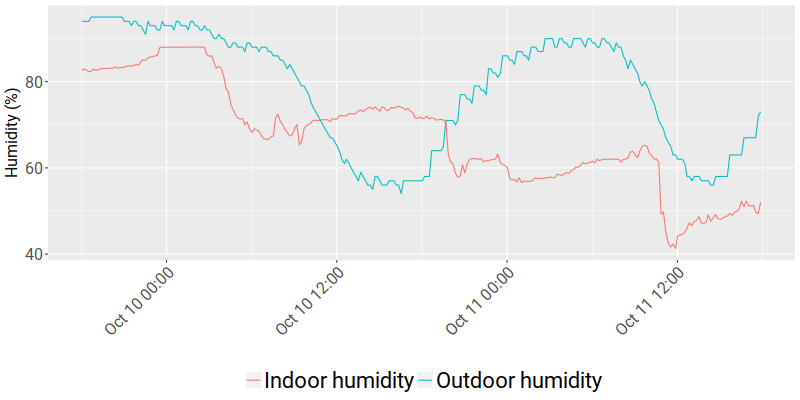
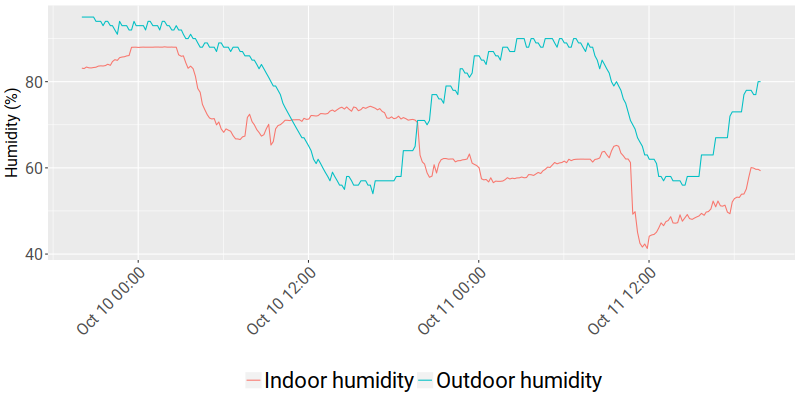
Update live temperature on site

diff --git a/temperature.js b/temperature.js
@@ -1,1 +1,1 @@
-document.write("<h4>Inside Temperature: 23.21°C</h4><h4>Outside Temperature: 16.64°C</h4><h4>Fermenter 1 Temperature: 22.63°C</h4><h4>Fermenter 2 Temperature: 22.25°C</h4><h4>Inside Humidity: 52.09%</h4><h4>Outside Humidity: 73.0%</h4><br>Last update: 2017-10-11 17:51:56");
+document.write("<h4>Inside Temperature: 23.08°C</h4><h4>Outside Temperature: 15.41°C</h4><h4>Fermenter 1 Temperature: 22.75°C</h4><h4>Fermenter 2 Temperature: 22.38°C</h4><h4>Inside Humidity: 59.33%</h4><h4>Outside Humidity: 80.0%</h4><br>Last update: 2017-10-11 19:51:42");
